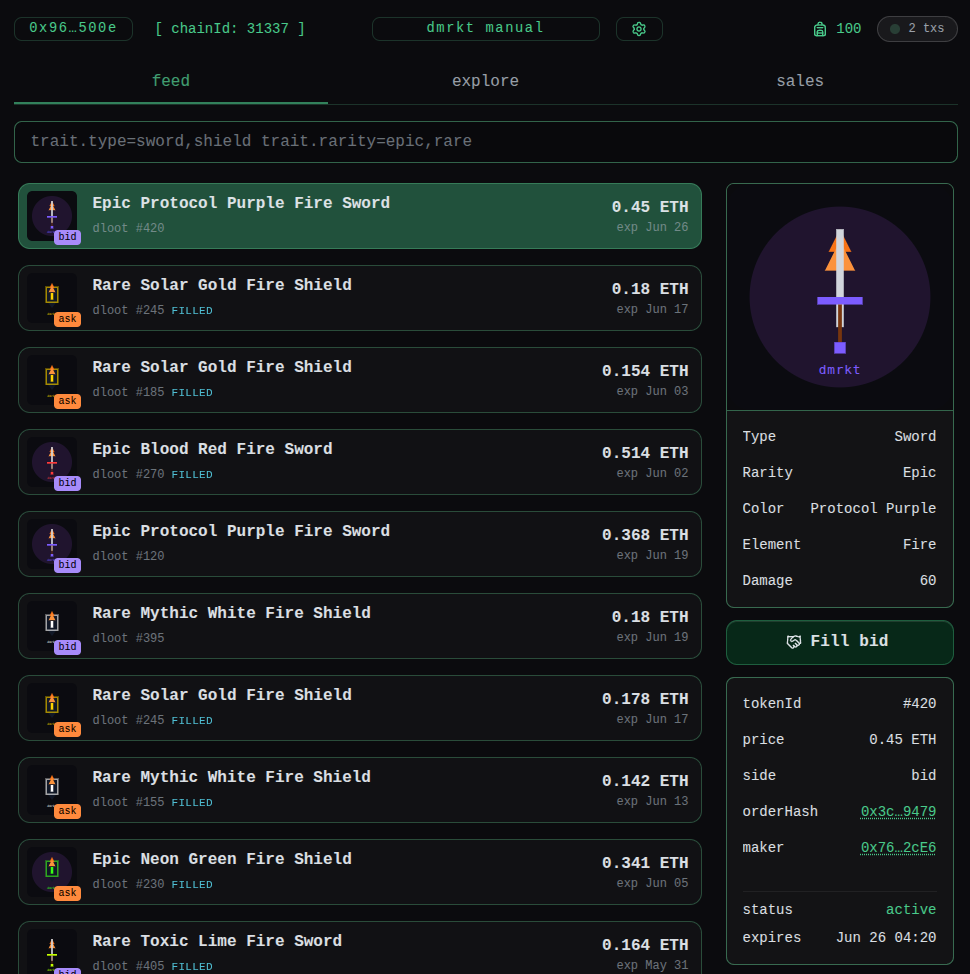
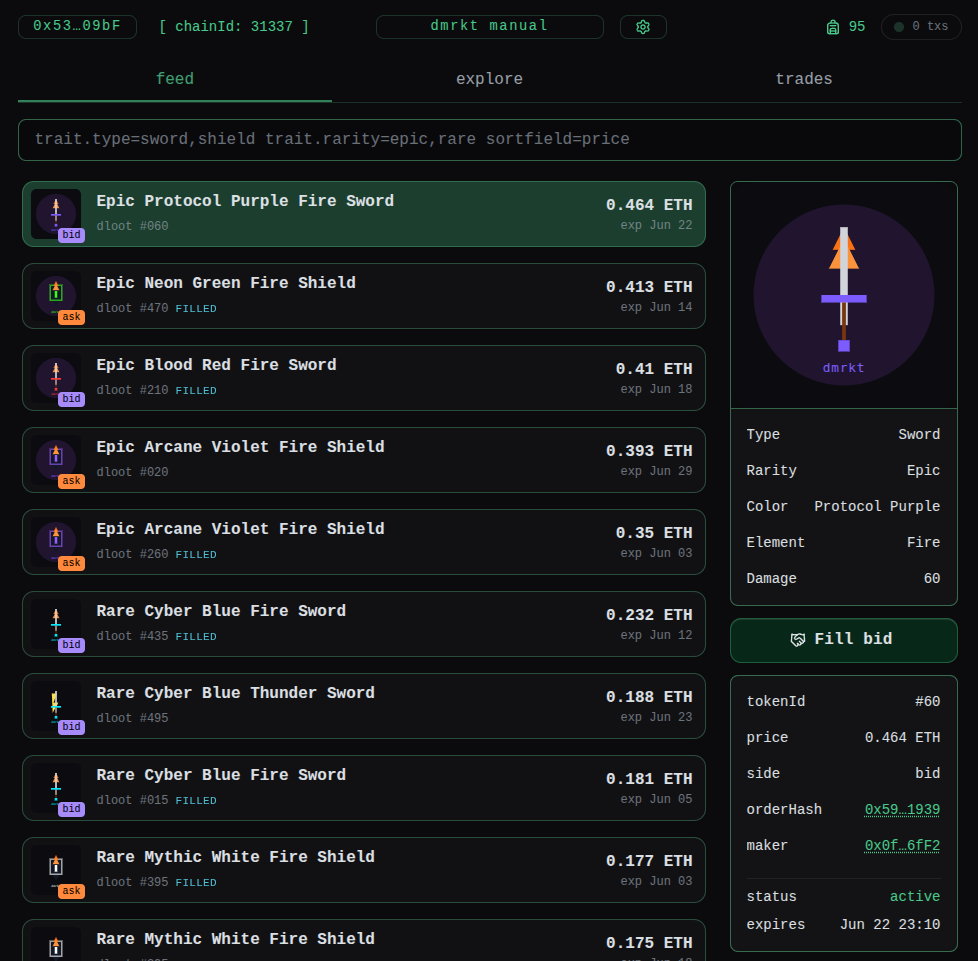
readme polish + set indexer worker interval as env var

diff --git a/README.md b/README.md
@@ -8,7 +8,7 @@ Everything runs via Docker Compose 🐳
 
 **Getting started** — [Prerequisites](#prerequisites) · [VM notes](#vm-notes) · [Environment](#environment) · [Run](#run)
 
-## ![d | mrkt in browser](./dmrkt_preview.png)
+![d | mrkt in browser](./dmrkt_preview.png)
 
 ---
 
@@ -16,11 +16,11 @@ Everything runs via Docker Compose 🐳
 
 Ethereum mainnet gets forked at a block number ~28 days in the past. The timespan from that block to now becomes the simulation window.
 
-The simulation step deploys contracts, generates signed EIP-712 orders and executes trades on a subset of these. For each trade, the forked chain's internal clock is incremented – spreading activity across the simulation window.
+The simulation step deploys contracts, generates signed EIP-712 orders and executes trades on a subset of them. For each trade, the forked chain's internal clock is incremented — spreading activity across the simulation window.
 
-Each trade emits a `Settlement` event, which is consumed by a NodeJS indexer and persisted to MongoDB.
+Each trade emits a `Settlement` event, which is consumed by a Node.js indexer and persisted to MongoDB.
 
-A NextJS single-page application displays this data and allows users to create orders, execute trades, and view receipts.
+A Next.js single-page application displays this data and allows users to create orders, execute trades, and view receipts.
 
 Realtime updates are streamed via WebSocket.
 
@@ -32,7 +32,7 @@ Realtime updates are streamed via WebSocket.
 | [sim][contracts]     | —                  | Contracts + Marketplace activity simulation |
 | [indexer][indexer]   | `5000` / `5001 ws` | Indexer + API + WebSocket                   |
 | [frontend][frontend] | `3000`             | Marketplace UI                              |
-| mongo                | `27017`            | MongoDB database                            |
+| mongo                | `27017`            | MongoDB instance                            |
 
 [contracts]: https://github.com/izcm/dmrkt-contracts
 [indexer]: https://github.com/izcm/dmrkt-indexer
@@ -79,10 +79,10 @@ Simulation logs are found in:
 
 ### VM notes
 
-> Skip this section if you're not running the demo in a virtual machine
+> Skip this section if you're not running the demo in a virtual machine.
 
 - **Disk:** 20 GB minimum. A full setup consumes roughly 14 GB.
-- **RAM:** 4 GB minimum. Runtime usage is low, but frontend builds requires some memory.
+- **RAM:** 4 GB minimum. Runtime usage is low, but building the frontend requires additional memory.
 - **Browser Clipboard API** only works in secure contexts (`https` or `localhost`). When accessing the frontend through the VM IP instead of `localhost`, the app falls back to a manual copy/paste popup.
 
 Provide `APP_HOST` via `.env` or an exported shell variable:
@@ -91,7 +91,7 @@ Provide `APP_HOST` via `.env` or an exported shell variable:
 APP_HOST=<VM_IP_ADDR>
 ```
 
-To resolve the clipboard issue, get the frontend to run in safe context by accessing it through SSH port forwarding:
+To resolve the clipboard issue, get the frontend to run in a secure context by accessing it through SSH port forwarding:
 
 ```bash
 ssh -L 3000:localhost:3000 user@vm-ip
@@ -107,10 +107,10 @@ MAINNET_RPC=https://eth-mainnet.g.alchemy.com/v2/YOUR_KEY
 
 This is the only variable you have to specify to run the demo. Everything else is either pre-populated or auto-generated.
 
-| File            | What it is                                                    |
-| --------------- | ------------------------------------------------------------- |
-| `env.example/*` | Service env files — pre-populated, static                     |
-| `.env.runtime`  | Auto-generated by `make demo-prepare` — don'tdo u see an edit |
+| File            | What it is                                         |
+| --------------- | -------------------------------------------------- |
+| `env.example/*` | Service env files — pre-populated, static          |
+| `.env.runtime`  | Auto-generated by `make demo-prepare` — don't edit |
 
 ### Run
 
@@ -120,7 +120,7 @@ make dapp
 
 `make dapp` runs two steps:
 
-- **prepare** — computes fork start-block and simulation window, derives the marketplace contract address and writes these to config / .env files
+- **prepare** — computes fork start-block and simulation window, derives the marketplace contract address and writes these to config and .env files
 - **up** — starts the services via Docker Compose
 
 All services use pre-built images, except the frontend. It has to be built locally since `NEXT_PUBLIC_*` variables are bundled at build time.
@@ -128,7 +128,7 @@ All services use pre-built images, except the frontend. It has to be built local
 > [!TIP]
 > If you have [Foundry](https://book.getfoundry.sh/) installed locally, you can run `make demo-prepare-local && make demo-up` instead to skip the setup container.
 
-Visit `localhost:3000` on to watch pipeline progress; once the trades are done, it'll link you to the marketplace.
+Visit `localhost:3000` to watch pipeline progress; once it's done, you'll be redirected to the marketplace.
 
 The first startup takes longer — Docker pulls images and builds the frontend before anything starts.
 
@@ -136,7 +136,7 @@ The first startup takes longer — Docker pulls images and builds the frontend b
 | --------- | ------ | ------------- |
 | First run | ~8 min | ~10–12 min    |
 
-After that, expect another 5 minutes for the simulation pipeline to finish.
+After that, expect another 5–7 minutes for the simulation pipeline to finish.
 
 Coffee break? ☕
 
@@ -151,12 +151,12 @@ The simulation revolves around a fixed set of accounts — bootstrapped with ETH
 
 We'll call them the demo participants 👨💻
 
-It's recommended to connect as one as you'll own orders and trade history the moment you log in.
+It's recommended to connect as one; you'll own orders and trade history the moment you log in.
 
-The next steps assume config/sim/mnemonic.example.json exists — run `make dapp` first if it doesn't.
+The next steps assume `config/sim/mnemonic.example.json` exists. Run `make dapp` first if it doesn't.
 
 > [!NOTE]
-> The mnemonic is generated once and persists across runs; it only changes if the file is deleted or becomes invalid.
+> The mnemonic is generated once and persists across runs. It only changes if the file is deleted or becomes invalid.
 >
 > Demo users are derived from the mnemonic and used as inputs to the simulation pipeline. A new mnemonic therefore produces a different dataset.
 
@@ -168,7 +168,7 @@ In your browser:
 
    `I have an existing wallet` → `Import using Secret Recovery Phrase`
 
-3. Paste the mnemonic from [mnemonic.json](./config/sim/mnemonic.example.json).
+3. Paste the mnemonic from [mnemonic.example.json](./config/sim/mnemonic.example.json).
 
 4. Choose a password.
 
@@ -178,7 +178,7 @@ To connect as another demo participant, click `+ Add account`. Each added accoun
 
 For the best keyboard navigation experience, use MetaMask in popup mode:
 
-1. Inside the MetaMask extension; click the hamburger menu icon
+1. Inside the MetaMask extension, click the hamburger menu icon
 
 2. Select `Switch to popup`
 
@@ -293,7 +293,7 @@ The marketplace contract would also need to be extended to support ERC-1155 orde
 
 ### Long pauses mid-run
 
-The pipeline hangs up for a long time during one specific stage — minting nfts to the demo participants.
+The pipeline hangs up for a long time during one specific stage — minting NFTs to the demo participants.
 
 If the demo collection followed a standard that supports batch minting, we could have one transaction per participant, instead of the current 500 transactions needed to mint each `tokenId`.
 